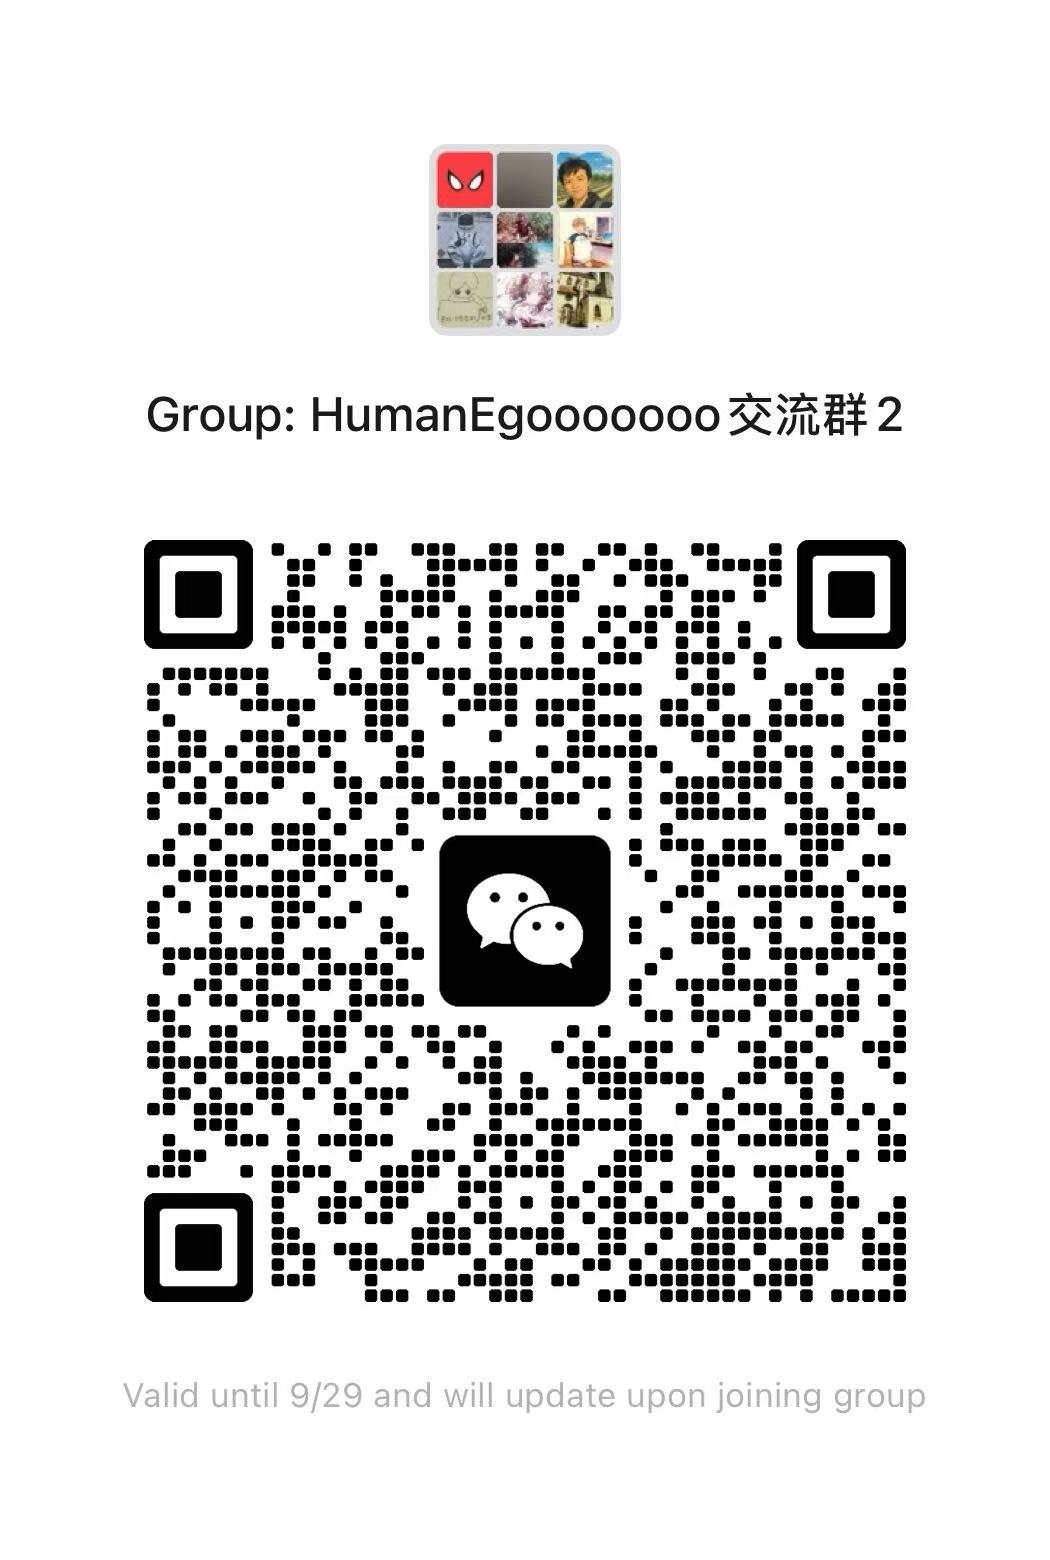
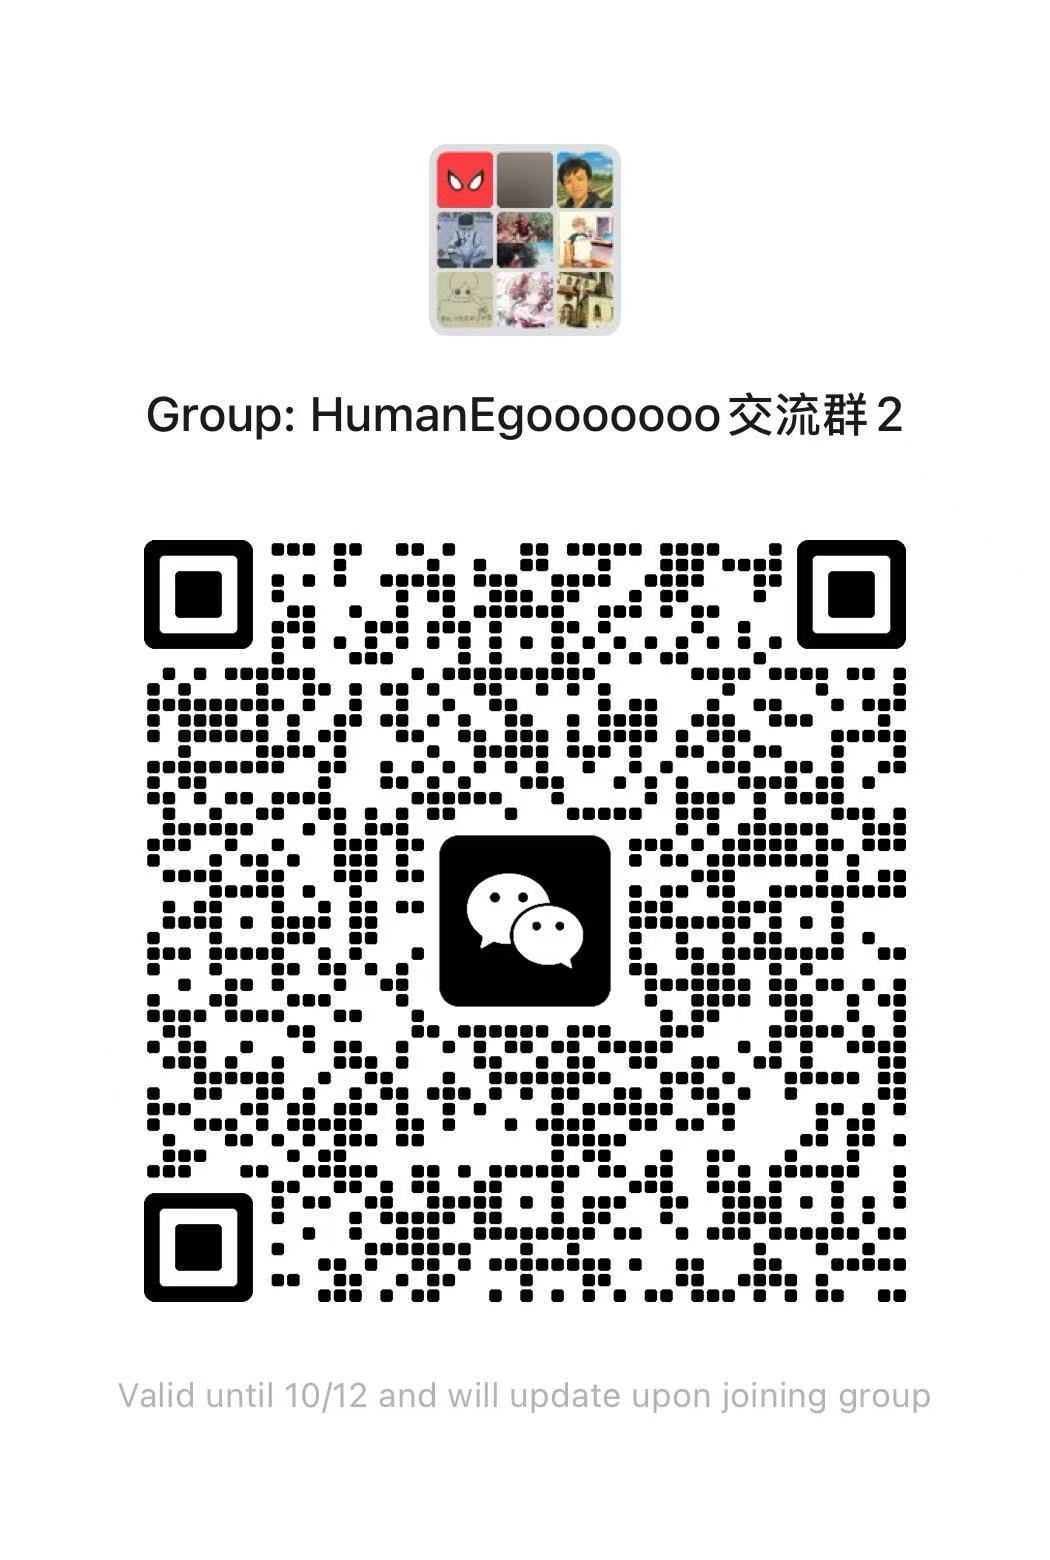
Add IROS 2026 workshop awards and poster link; update WeChat QR
- Awards band (gold laurel cards) for the WORLDS Best Paper Award and the
  ScaleInfra Best Demo Paper Award, placed between the affiliation and the
  link pills; each card links to its workshop.
- Poster link pill next to Slides.
- WeChat group QR refreshed (group 2, valid until 10/12).

Changed region(s): [[0.1219, 0.3385, 0.8838, 0.9231]]

diff --git a/index.html b/index.html
@@ -218,6 +218,103 @@
        outlet's logo on a small white chip, so three very different marks (grey
        Synced figure, dark EAI tile, red UMD block) read cleanly and uniformly
        on the dark pill. Two-line label = Chinese outlet name + English byline. */
+    /* ---- IROS 2026 workshop awards ----
+       A gold laurel band that mirrors the "As Featured In" label treatment but
+       swaps the neutral rules for a warm award accent. Cards are links out to
+       each workshop. */
+    .awards { margin-top: 1.9em; }
+    .awards-label {
+      display: flex;
+      align-items: center;
+      justify-content: center;
+      gap: 0.85em;
+      margin: 0 auto 1.05em;
+      font-size: 0.72rem;
+      font-weight: 700;
+      letter-spacing: 0.18em;
+      text-transform: uppercase;
+      color: #A9873C;
+    }
+    .awards-label::before,
+    .awards-label::after {
+      content: "";
+      height: 1px;
+      width: clamp(26px, 9vw, 64px);
+      background: linear-gradient(to right, rgba(0, 0, 0, 0), #E2CE97);
+    }
+    .awards-label::after { transform: scaleX(-1); }
+
+    .award-list {
+      display: flex;
+      flex-wrap: wrap;
+      justify-content: center;
+      align-items: stretch;   /* both cards match height regardless of subtitle length */
+      gap: 0.85em;
+    }
+    .award-card {
+      display: inline-flex;
+      align-items: center;
+      gap: clamp(0.5em, 1.8vw, 0.95em);
+      padding: 0.62em clamp(0.9em, 2.6vw, 1.35em);
+      border-radius: 14px;
+      text-decoration: none;
+      background: linear-gradient(180deg, #FFFCF4 0%, #FBF3DE 100%);
+      border: 1px solid #ECDCAE;
+      box-shadow: 0 1px 2px rgba(142, 110, 32, 0.07), 0 6px 18px rgba(142, 110, 32, 0.06);
+      transition: transform 0.18s ease, box-shadow 0.18s ease, border-color 0.18s ease;
+    }
+    .award-card:hover {
+      transform: translateY(-2px);
+      border-color: #DFC884;
+      box-shadow: 0 2px 4px rgba(142, 110, 32, 0.10), 0 12px 26px rgba(142, 110, 32, 0.12);
+    }
+    .award-laurel {
+      flex: 0 0 auto;
+      width: clamp(19px, 5vw, 26px);
+      color: #C2A24F;
+      line-height: 0;
+    }
+    .award-laurel svg { width: 100%; height: auto; display: block; }
+    .award-laurel.is-right { transform: scaleX(-1); }
+
+    .award-body {
+      display: flex;
+      flex-direction: column;
+      align-items: center;
+      gap: 0.16em;
+      text-align: center;
+    }
+    .award-name {
+      font-size: clamp(0.98rem, 2.7vw, 1.14rem);
+      font-weight: 800;
+      letter-spacing: -0.01em;
+      line-height: 1.15;
+      background: linear-gradient(92deg, #9A7420 0%, #C9A23F 45%, #8C691A 100%);
+      -webkit-background-clip: text;
+      background-clip: text;
+      color: #9A7420;                 /* fallback where background-clip:text is unsupported */
+      -webkit-text-fill-color: transparent;
+    }
+    .award-venue {
+      font-size: clamp(0.76rem, 2.1vw, 0.84rem);
+      font-weight: 700;
+      color: #4A4A4A;
+      letter-spacing: 0.01em;
+    }
+    .award-sub {
+      font-size: clamp(0.66rem, 1.9vw, 0.73rem);
+      font-weight: 500;
+      color: #9A8F77;
+      max-width: 27ch;
+      line-height: 1.3;
+    }
+
+    @media (max-width: 560px) {
+      .award-list { flex-direction: column; align-items: stretch; }
+      .award-card { justify-content: center; }
+      .award-sub { max-width: none; }
+    }
+
     .media-coverage { margin-top: 1.7em; }
     .media-coverage-label {
       display: flex;
@@ -1021,6 +1118,91 @@
         <a href="https://www.umd.edu/" target="_blank" rel="noopener"><img src="static/images/UMD-logo.png" alt="University of Maryland" class="umd-logo"></a>
       </div>
 
+      <!-- IROS 2026 workshop awards. -->
+      <div class="awards">
+        <div class="awards-label">Awards</div>
+        <div class="award-list">
+          <a class="award-card" href="https://worlds-iros2026.github.io/" target="_blank" rel="noopener">
+            <span class="award-laurel"><svg viewBox="0 0 44 74" xmlns="http://www.w3.org/2000/svg" aria-hidden="true">
+<g fill="currentColor">
+<path d="M34.0 70.0 Q 9.0 40.0 21.0 3.0" fill="none" stroke="currentColor" stroke-width="2" stroke-linecap="round"/>
+<ellipse cx="25.07" cy="63.16" rx="6.68" ry="2.58" transform="rotate(-156.6 25.07 63.16)"/>
+<ellipse cx="30.38" cy="59.77" rx="6.68" ry="2.58" transform="rotate(-88.6 30.38 59.77)"/>
+<ellipse cx="20.18" cy="53.90" rx="6.35" ry="2.45" transform="rotate(-148.6 20.18 53.90)"/>
+<ellipse cx="25.62" cy="51.40" rx="6.35" ry="2.45" transform="rotate(-80.6 25.62 51.40)"/>
+<ellipse cx="16.79" cy="44.35" rx="6.03" ry="2.33" transform="rotate(-140.0 16.79 44.35)"/>
+<ellipse cx="22.26" cy="42.78" rx="6.03" ry="2.33" transform="rotate(-72.0 22.26 42.78)"/>
+<ellipse cx="14.93" cy="34.54" rx="5.71" ry="2.20" transform="rotate(-131.2 14.93 34.54)"/>
+<ellipse cx="20.27" cy="33.87" rx="5.71" ry="2.20" transform="rotate(-63.2 20.27 33.87)"/>
+<ellipse cx="14.59" cy="24.50" rx="5.38" ry="2.08" transform="rotate(-122.5 14.59 24.50)"/>
+<ellipse cx="19.67" cy="24.64" rx="5.38" ry="2.08" transform="rotate(-54.5 19.67 24.64)"/>
+<ellipse cx="15.76" cy="14.26" rx="5.06" ry="1.95" transform="rotate(-114.4 15.76 14.26)"/>
+<ellipse cx="20.46" cy="15.06" rx="5.06" ry="1.95" transform="rotate(-46.4 20.46 15.06)"/>
+</g></svg></span>
+            <span class="award-body">
+              <span class="award-name">Best Paper Award</span>
+              <span class="award-venue">WORLDS @ IROS 2026</span>
+              <span class="award-sub">World Models and Spatial Intelligence for Physical AI</span>
+            </span>
+            <span class="award-laurel is-right"><svg viewBox="0 0 44 74" xmlns="http://www.w3.org/2000/svg" aria-hidden="true">
+<g fill="currentColor">
+<path d="M34.0 70.0 Q 9.0 40.0 21.0 3.0" fill="none" stroke="currentColor" stroke-width="2" stroke-linecap="round"/>
+<ellipse cx="25.07" cy="63.16" rx="6.68" ry="2.58" transform="rotate(-156.6 25.07 63.16)"/>
+<ellipse cx="30.38" cy="59.77" rx="6.68" ry="2.58" transform="rotate(-88.6 30.38 59.77)"/>
+<ellipse cx="20.18" cy="53.90" rx="6.35" ry="2.45" transform="rotate(-148.6 20.18 53.90)"/>
+<ellipse cx="25.62" cy="51.40" rx="6.35" ry="2.45" transform="rotate(-80.6 25.62 51.40)"/>
+<ellipse cx="16.79" cy="44.35" rx="6.03" ry="2.33" transform="rotate(-140.0 16.79 44.35)"/>
+<ellipse cx="22.26" cy="42.78" rx="6.03" ry="2.33" transform="rotate(-72.0 22.26 42.78)"/>
+<ellipse cx="14.93" cy="34.54" rx="5.71" ry="2.20" transform="rotate(-131.2 14.93 34.54)"/>
+<ellipse cx="20.27" cy="33.87" rx="5.71" ry="2.20" transform="rotate(-63.2 20.27 33.87)"/>
+<ellipse cx="14.59" cy="24.50" rx="5.38" ry="2.08" transform="rotate(-122.5 14.59 24.50)"/>
+<ellipse cx="19.67" cy="24.64" rx="5.38" ry="2.08" transform="rotate(-54.5 19.67 24.64)"/>
+<ellipse cx="15.76" cy="14.26" rx="5.06" ry="1.95" transform="rotate(-114.4 15.76 14.26)"/>
+<ellipse cx="20.46" cy="15.06" rx="5.06" ry="1.95" transform="rotate(-46.4 20.46 15.06)"/>
+</g></svg></span>
+          </a>
+          <a class="award-card" href="https://openreview.net/group?id=IEEE.org/IROS/2026/Workshop/ScaleInfra" target="_blank" rel="noopener">
+            <span class="award-laurel"><svg viewBox="0 0 44 74" xmlns="http://www.w3.org/2000/svg" aria-hidden="true">
+<g fill="currentColor">
+<path d="M34.0 70.0 Q 9.0 40.0 21.0 3.0" fill="none" stroke="currentColor" stroke-width="2" stroke-linecap="round"/>
+<ellipse cx="25.07" cy="63.16" rx="6.68" ry="2.58" transform="rotate(-156.6 25.07 63.16)"/>
+<ellipse cx="30.38" cy="59.77" rx="6.68" ry="2.58" transform="rotate(-88.6 30.38 59.77)"/>
+<ellipse cx="20.18" cy="53.90" rx="6.35" ry="2.45" transform="rotate(-148.6 20.18 53.90)"/>
+<ellipse cx="25.62" cy="51.40" rx="6.35" ry="2.45" transform="rotate(-80.6 25.62 51.40)"/>
+<ellipse cx="16.79" cy="44.35" rx="6.03" ry="2.33" transform="rotate(-140.0 16.79 44.35)"/>
+<ellipse cx="22.26" cy="42.78" rx="6.03" ry="2.33" transform="rotate(-72.0 22.26 42.78)"/>
+<ellipse cx="14.93" cy="34.54" rx="5.71" ry="2.20" transform="rotate(-131.2 14.93 34.54)"/>
+<ellipse cx="20.27" cy="33.87" rx="5.71" ry="2.20" transform="rotate(-63.2 20.27 33.87)"/>
+<ellipse cx="14.59" cy="24.50" rx="5.38" ry="2.08" transform="rotate(-122.5 14.59 24.50)"/>
+<ellipse cx="19.67" cy="24.64" rx="5.38" ry="2.08" transform="rotate(-54.5 19.67 24.64)"/>
+<ellipse cx="15.76" cy="14.26" rx="5.06" ry="1.95" transform="rotate(-114.4 15.76 14.26)"/>
+<ellipse cx="20.46" cy="15.06" rx="5.06" ry="1.95" transform="rotate(-46.4 20.46 15.06)"/>
+</g></svg></span>
+            <span class="award-body">
+              <span class="award-name">Best Demo Paper Award</span>
+              <span class="award-venue">ScaleInfra @ IROS 2026</span>
+              <span class="award-sub">Building Scalable Infrastructure for Robot Learning: From Data Scaling to Real-World Deployment</span>
+            </span>
+            <span class="award-laurel is-right"><svg viewBox="0 0 44 74" xmlns="http://www.w3.org/2000/svg" aria-hidden="true">
+<g fill="currentColor">
+<path d="M34.0 70.0 Q 9.0 40.0 21.0 3.0" fill="none" stroke="currentColor" stroke-width="2" stroke-linecap="round"/>
+<ellipse cx="25.07" cy="63.16" rx="6.68" ry="2.58" transform="rotate(-156.6 25.07 63.16)"/>
+<ellipse cx="30.38" cy="59.77" rx="6.68" ry="2.58" transform="rotate(-88.6 30.38 59.77)"/>
+<ellipse cx="20.18" cy="53.90" rx="6.35" ry="2.45" transform="rotate(-148.6 20.18 53.90)"/>
+<ellipse cx="25.62" cy="51.40" rx="6.35" ry="2.45" transform="rotate(-80.6 25.62 51.40)"/>
+<ellipse cx="16.79" cy="44.35" rx="6.03" ry="2.33" transform="rotate(-140.0 16.79 44.35)"/>
+<ellipse cx="22.26" cy="42.78" rx="6.03" ry="2.33" transform="rotate(-72.0 22.26 42.78)"/>
+<ellipse cx="14.93" cy="34.54" rx="5.71" ry="2.20" transform="rotate(-131.2 14.93 34.54)"/>
+<ellipse cx="20.27" cy="33.87" rx="5.71" ry="2.20" transform="rotate(-63.2 20.27 33.87)"/>
+<ellipse cx="14.59" cy="24.50" rx="5.38" ry="2.08" transform="rotate(-122.5 14.59 24.50)"/>
+<ellipse cx="19.67" cy="24.64" rx="5.38" ry="2.08" transform="rotate(-54.5 19.67 24.64)"/>
+<ellipse cx="15.76" cy="14.26" rx="5.06" ry="1.95" transform="rotate(-114.4 15.76 14.26)"/>
+<ellipse cx="20.46" cy="15.06" rx="5.06" ry="1.95" transform="rotate(-46.4 20.46 15.06)"/>
+</g></svg></span>
+          </a>
+        </div>
+      </div>
+
       <div class="link-buttons">
         <a href="https://arxiv.org/pdf/2605.24934" target="_blank" rel="noopener"><i class="fas fa-file-pdf"></i>&nbsp;Paper</a>
         <a href="https://arxiv.org/abs/2605.24934" target="_blank" rel="noopener"><i class="ai ai-arxiv"></i>&nbsp;arXiv</a>
@@ -1035,6 +1217,7 @@
         <a href="https://youtu.be/OyLIPKTkR7c" target="_blank" rel="noopener"><i class="fab fa-youtube"></i>&nbsp;5-min Talk (EN)</a>
         <a href="https://www.xiaohongshu.com/explore/6a518e1b000000001702c97a?xsec_token=ABG8M7-mOaTC-ZJUZdWsDslABs-DEcFouhytTD43Rxphs=&amp;xsec_source=pc_user" target="_blank" rel="noopener"><i class="fas fa-play-circle"></i>&nbsp;1h Talk (CN)</a>
         <a href="https://docs.google.com/presentation/d/1vJcPOh1DZwDVXBW2SXHRVrZTwEo1GuZPrejtP6qkeoU/edit?slide=id.g3d768adbbee_0_0#slide=id.g3d768adbbee_0_0" target="_blank" rel="noopener"><i class="fas fa-file-powerpoint"></i>&nbsp;Slides</a>
+        <a href="https://docs.google.com/presentation/d/176mPGtUklhS7h0wZ-SolEQj2gvUoeAjhBWJkmjrhvuw/edit?usp=sharing" target="_blank" rel="noopener"><i class="fas fa-scroll"></i>&nbsp;Poster</a>
         <a href="#bibtex"><i class="fas fa-quote-right"></i>&nbsp;BibTeX</a>
       </div>
 
